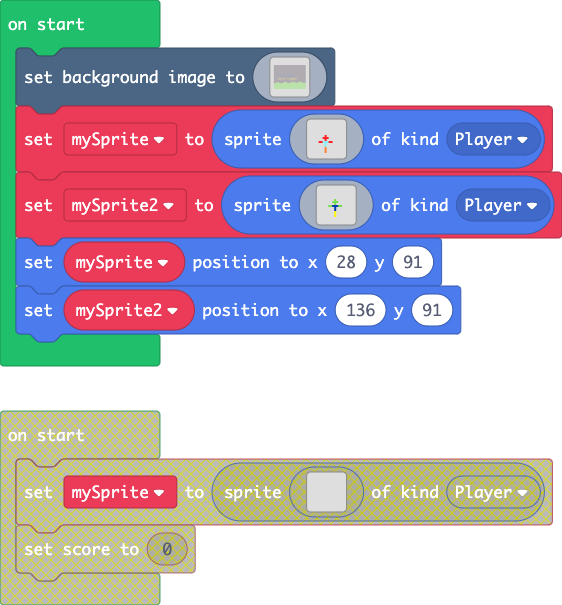
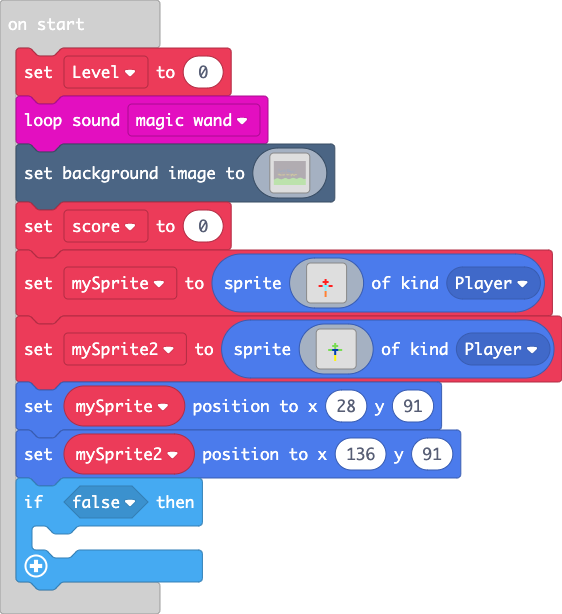
Update main.blocks, main.ts

diff --git a/main.ts b/main.ts
@@ -1,3 +1,5 @@
+let Level = 0
+music.magicWand.loop()
 scene.setBackgroundImage(img`
 c c c c c c c c c c c c c c c c c c c c c c c c c c c c c c c c c c c c c c c c c c c c c c c c c c c c c c c c c c c c c c c c c c c c c c c c c c c c c c c c c c c c c c c c c c c c c c c c c c c c c c c c c c c c c c c c c c c c c c c c c c c c c c c c c c c c c c c c c c c c c c c c c c c c c c c c c c c c c c c c 
 c c c c c c c c c c c c c c c c c c c c c c c c c c c c c c c c c c c c c c c c c c c c c c c c c c c c c c c c c c c c c c c c c c c c c c c c c c c c c c c c c c c c c c c c c c c c c c c c c c c c c c c c c c c c c c c c c c c c c c c c c c c c c c c c c c c c c c c c c c c c c c c c c c c c c c c c c c c c c c c c 
@@ -120,6 +122,7 @@ c c 7 7 7 7 7 7 7 7 7 7 7 7 7 7 7 7 7 7 7 7 7 7 7 7 7 7 7 7 7 7 7 7 7 7 7 7 7 7 
 7 7 7 7 7 7 7 7 7 7 7 7 7 7 7 7 7 7 7 7 7 7 7 7 7 7 7 7 7 7 7 7 7 7 7 7 7 7 7 7 7 7 7 7 7 7 7 7 7 7 7 7 7 7 7 7 7 7 7 7 7 7 7 7 7 7 7 7 7 7 7 7 7 7 7 7 7 7 7 7 7 7 7 7 7 7 7 7 7 7 7 7 7 7 7 7 7 7 7 7 7 7 7 7 7 7 7 7 7 7 7 7 7 7 7 7 7 7 7 7 7 7 7 7 7 7 7 7 7 7 7 7 7 7 7 7 7 7 7 7 7 7 7 7 7 7 7 7 7 7 7 7 7 7 7 7 7 7 7 7 
 7 7 7 7 7 7 7 7 7 7 7 7 7 7 7 7 7 7 7 7 7 7 7 7 7 7 7 7 7 7 7 7 7 7 7 7 7 7 7 7 7 7 7 7 7 7 7 7 7 7 7 7 7 7 7 7 7 7 7 7 7 7 7 7 7 7 7 7 7 7 7 7 7 7 7 7 7 7 7 7 7 7 7 7 7 7 7 7 7 7 7 7 7 7 7 7 7 7 7 7 7 7 7 7 7 7 7 7 7 7 7 7 7 7 7 7 7 7 7 7 7 7 7 7 7 7 7 7 7 7 7 7 7 7 7 7 7 7 7 7 7 7 7 7 7 7 7 7 7 7 7 7 7 7 7 7 7 7 7 7 
 `)
+let score = 0
 let mySprite = sprites.create(img`
 . . . . . . . . . . . . . . . . 
 . . . . . . . . . . . . . . . . 
@@ -158,3 +161,6 @@ let mySprite2 = sprites.create(img`
 `, SpriteKind.Player)
 mySprite.setPosition(28, 91)
 mySprite2.setPosition(136, 91)
+if (false) {
+	
+}
